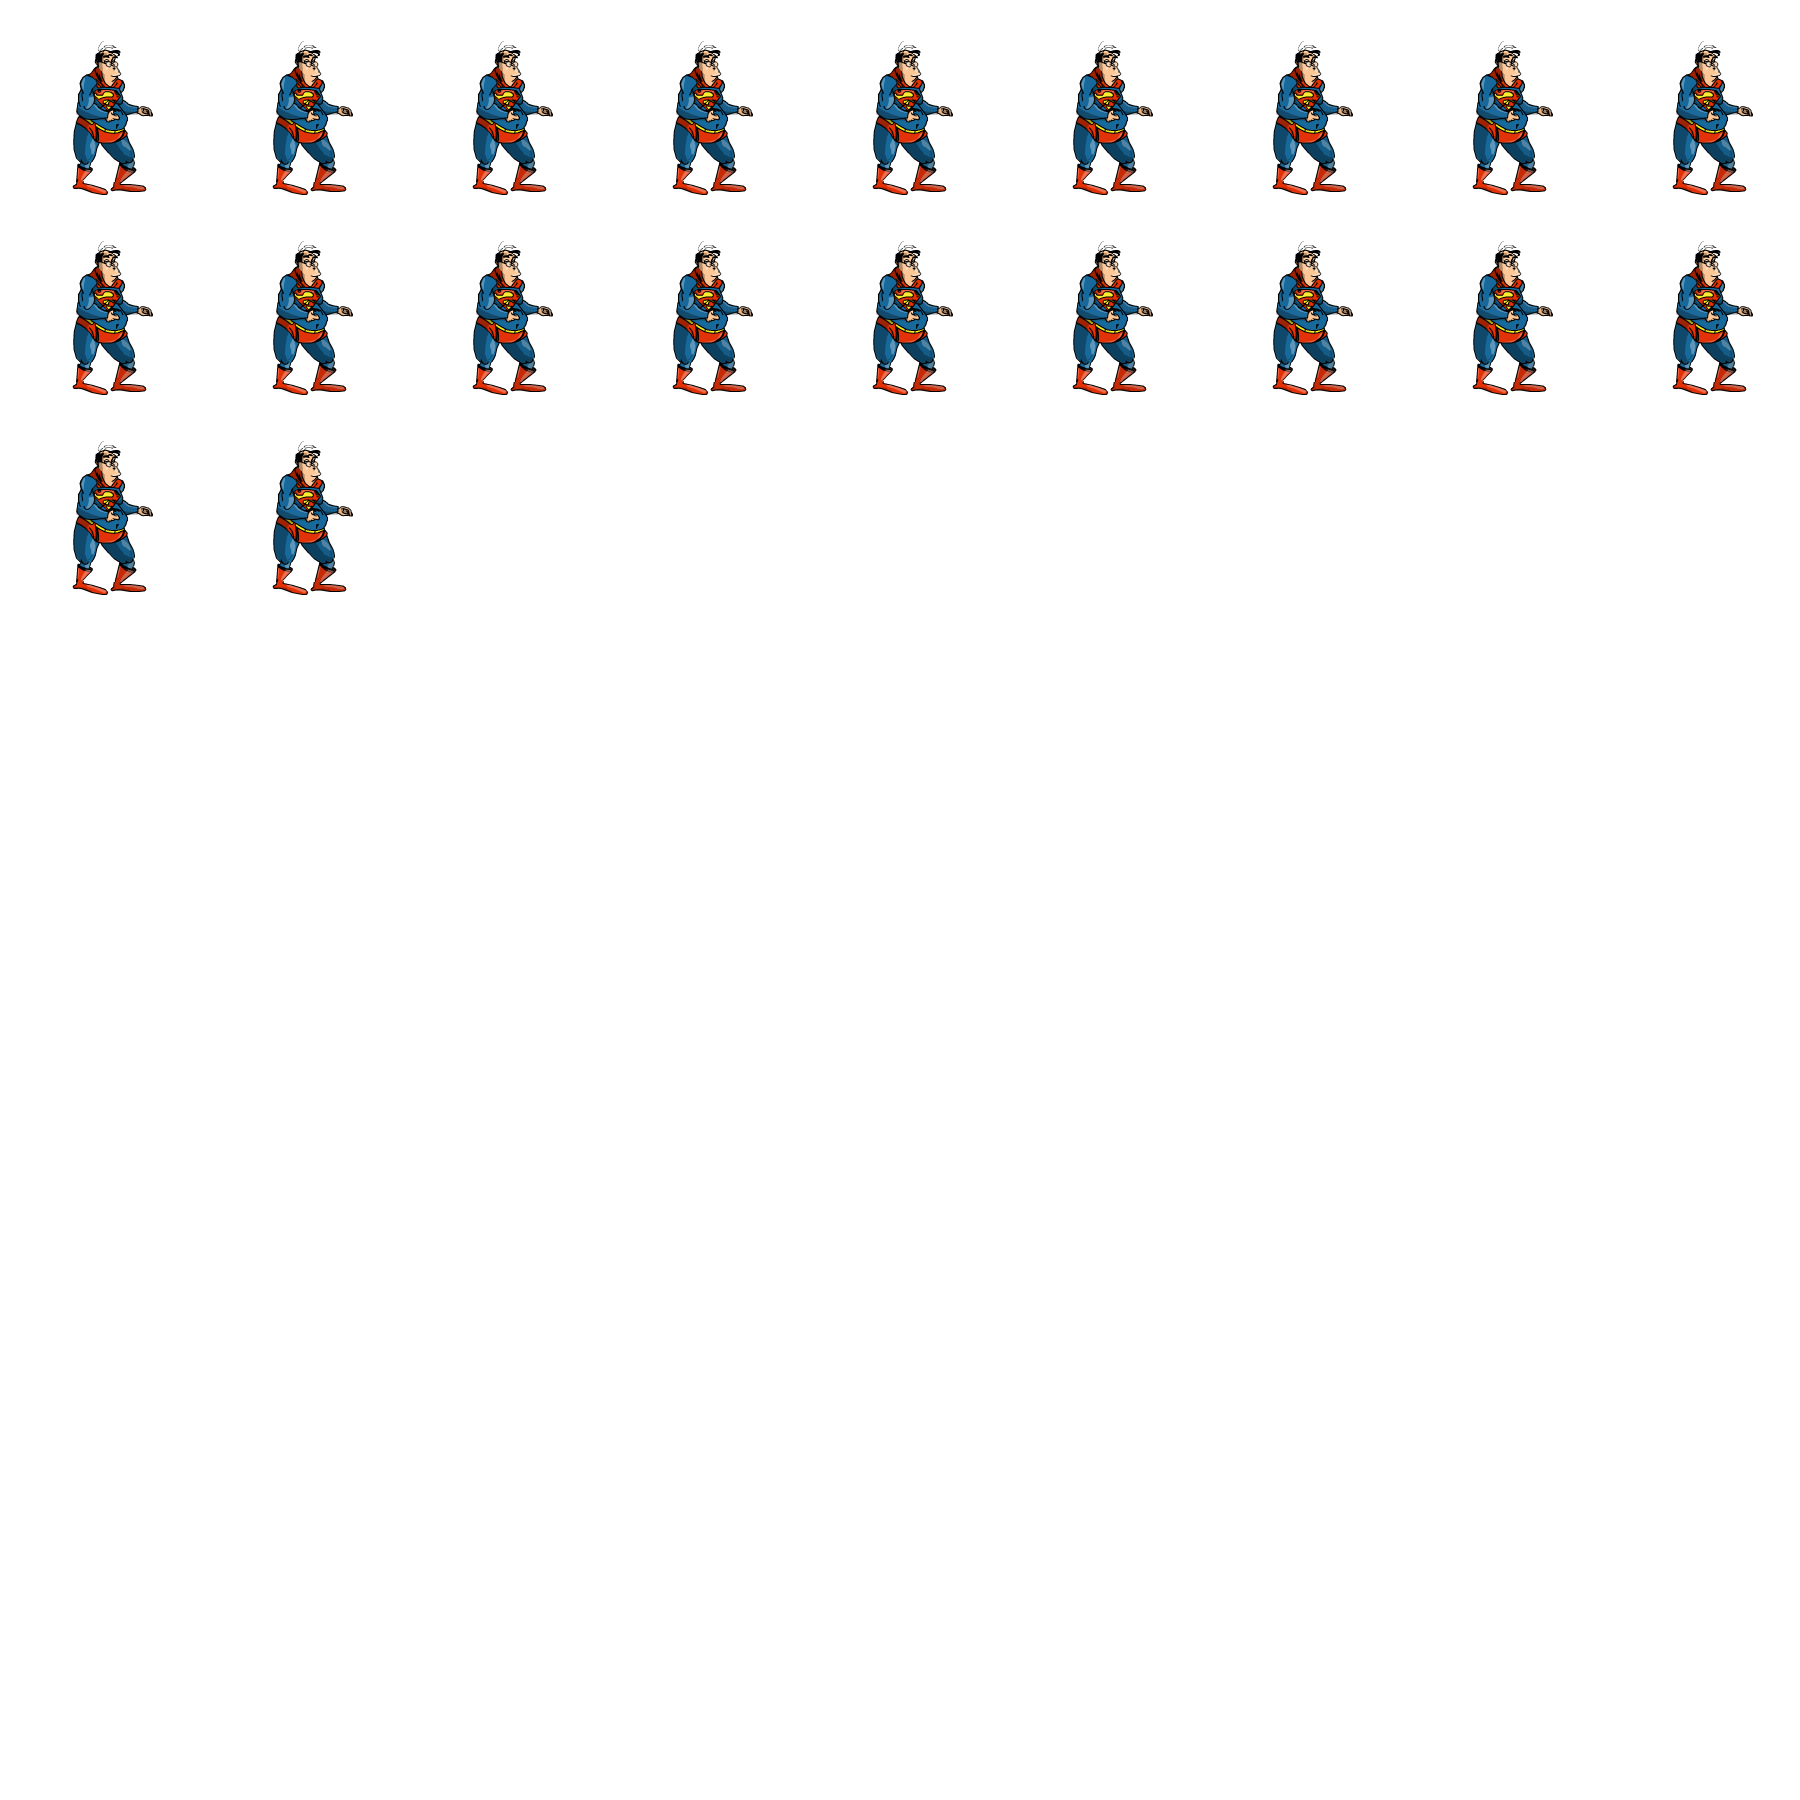
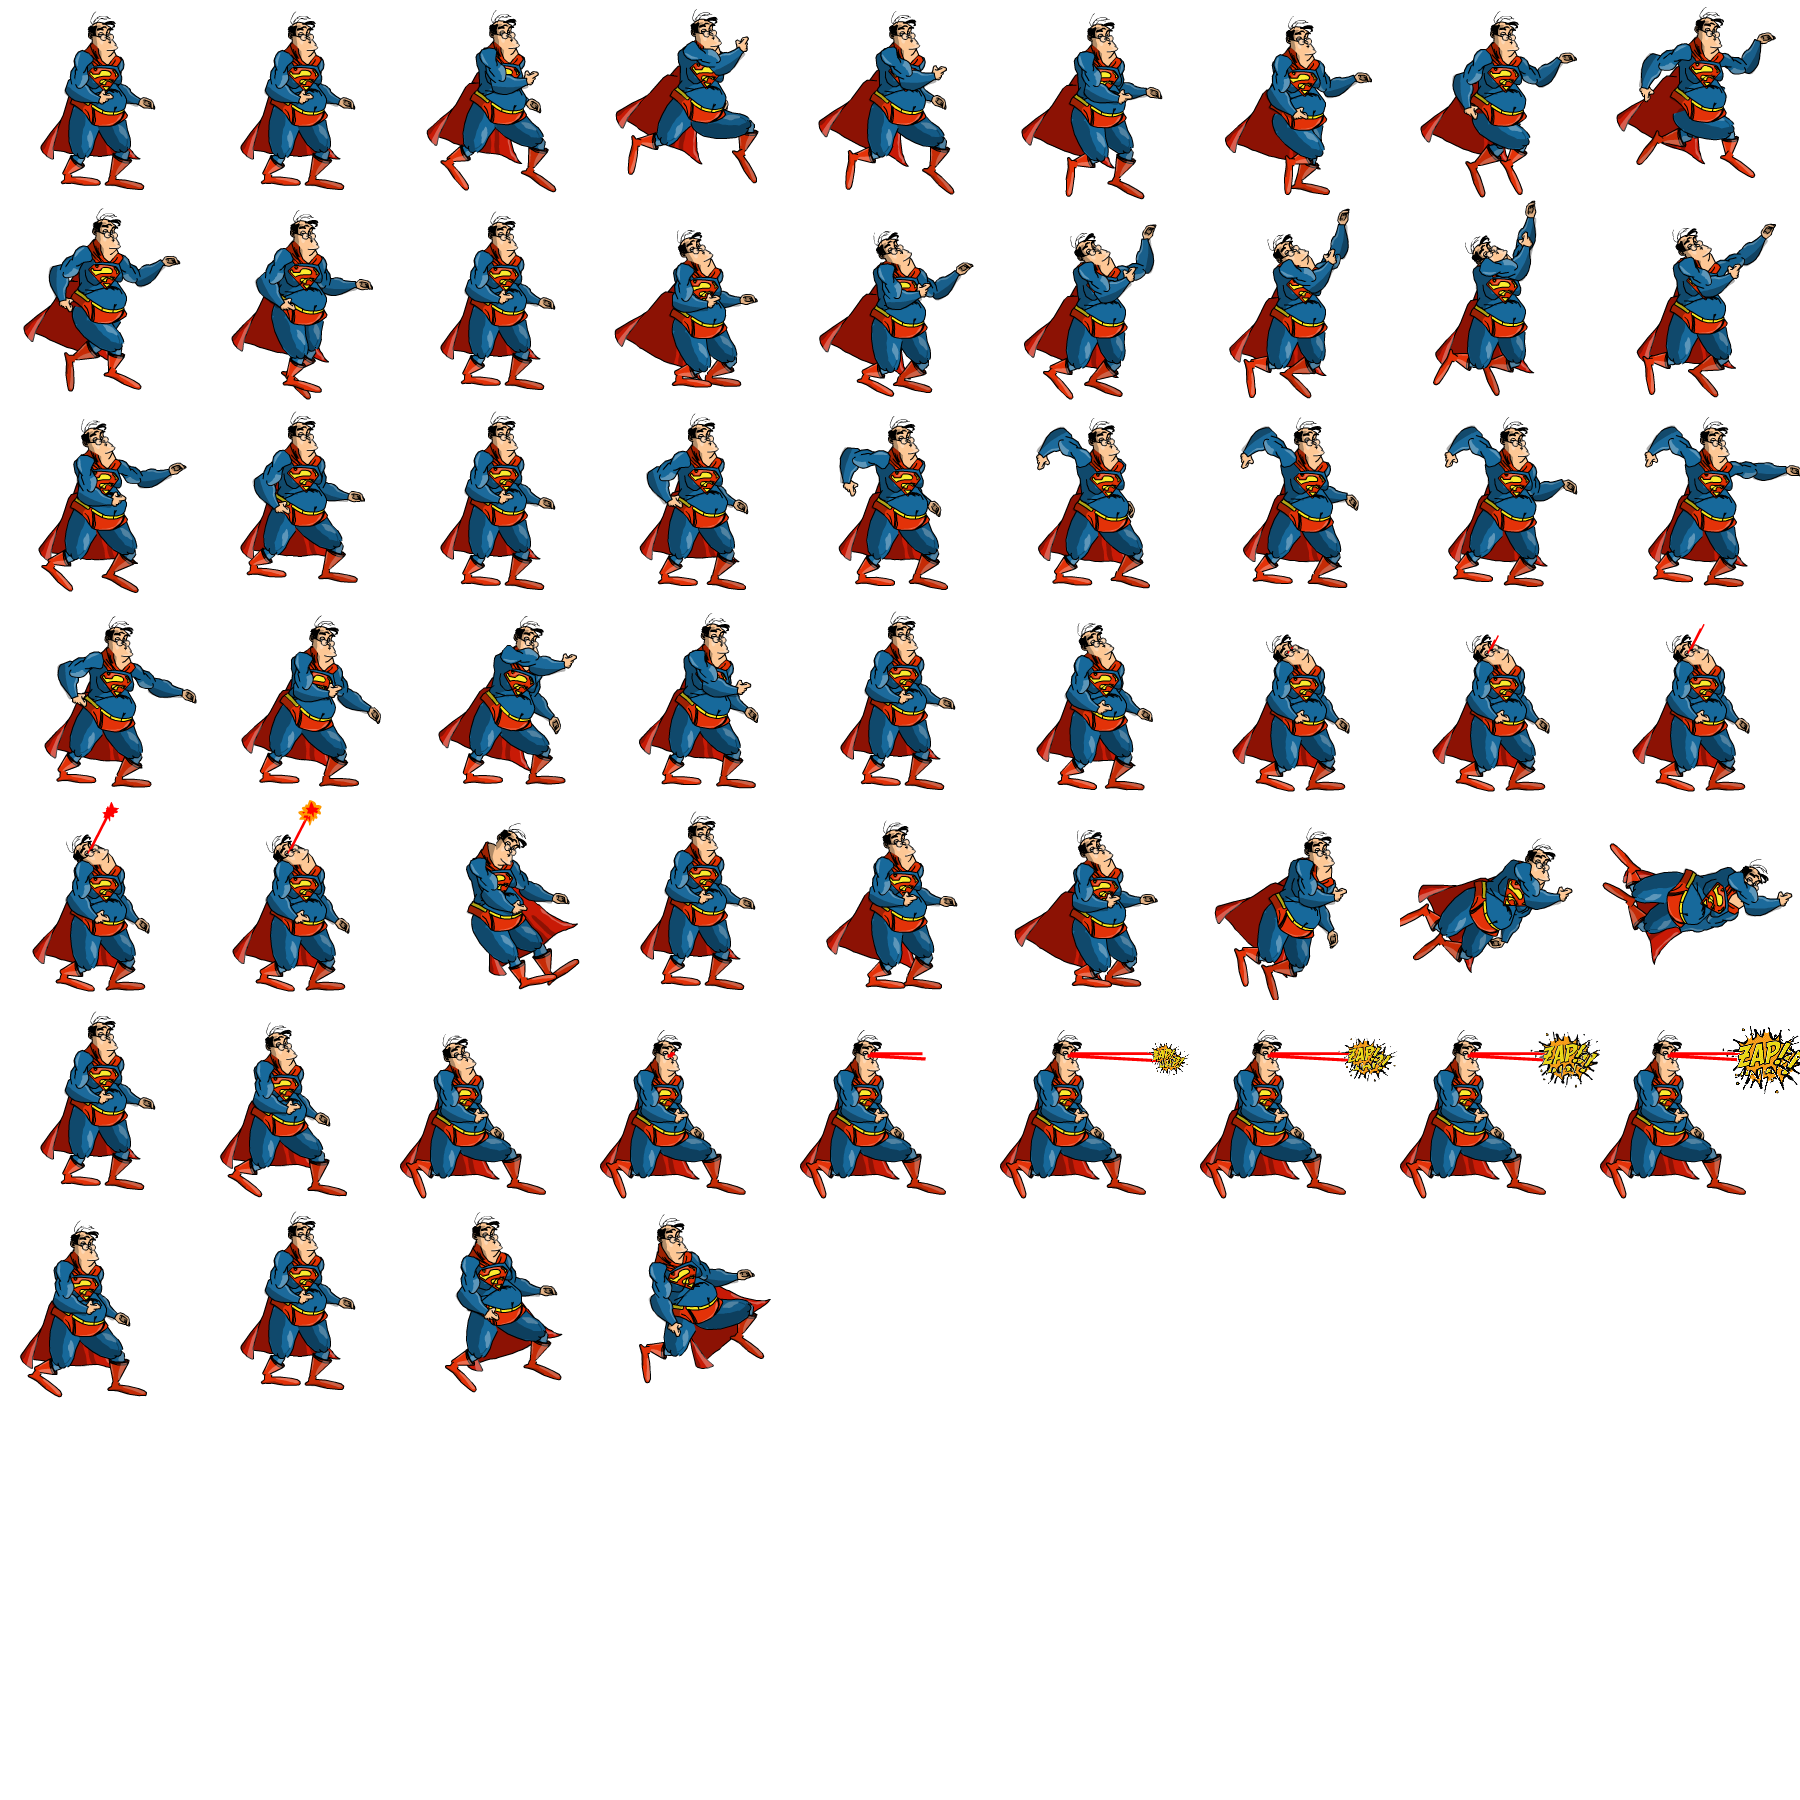
Maps & stuff

diff --git a/SmashBros/SmashBros/SmashBros/System/Serializing.cs b/SmashBros/SmashBros/SmashBros/System/Serializing.cs
@@ -247,17 +247,17 @@ namespace SmashBros.System
                     c.animations = "Characters/SupermanFatAnimation";
                     c.ani_noneStart = 0;
                     c.ani_noneEnd = 0;
-                    c.ani_runStart = 0;
-                    c.ani_runEnd = 0;
-                    c.ani_brake = 0;
-                    c.ani_jumpStart = 0;
-                    c.ani_jumpEnd = 0;
-                    c.ani_fallStart = 0;
-                    c.ani_fallEnd = 0;
-                    c.ani_landStart = 0;
-                    c.ani_landEnd = 0;
-                    c.ani_takeHitStart = 0;
-                    c.ani_takeHitEnd = 0;
+                    c.ani_runStart = 1;
+                    c.ani_runEnd = 10;
+                    c.ani_brake = 38;
+                    c.ani_jumpStart = 11;
+                    c.ani_jumpEnd = 16;
+                    c.ani_fallStart = 16;
+                    c.ani_fallEnd = 16;
+                    c.ani_landStart = 17;
+                    c.ani_landEnd = 19;
+                    c.ani_takeHitStart = 55;
+                    c.ani_takeHitEnd = 57;
 
                     c.a = new Move()
                     {
@@ -274,8 +274,8 @@ namespace SmashBros.System
                         sqWidth = 10,
                         sqHeight = 10,
                         duration = 250,
-                        aniFrom = 0,
-                        aniTo = 0
+                        aniFrom = 20,
+                        aniTo = 30
                     };
 
                     c.aUp = new Move()
@@ -293,8 +293,27 @@ namespace SmashBros.System
                         sqWidth = 10,
                         sqHeight = 10,
                         duration = 250,
-                        aniFrom = 0,
-                        aniTo = 0
+                        aniFrom = 31,
+                        aniTo = 37
+                    };
+
+                    c.x =new Move()
+                    {
+                        range = false,
+                        adjustable = false,
+                        minWait = 0,
+                        maxWait = 0,
+                        minPower = 10,
+                        maxPower = 10,
+                        minDamage = 10,
+                        maxDamage = 10,
+                        sqRange = 0.8f,
+                        bodyRange = 1,
+                        sqWidth = 10,
+                        sqHeight = 10,
+                        duration = 250,
+                        aniFrom = 45,
+                        aniTo = 54
                     };
                 }
                 Write(c,CharacterFolder,"Character"+i);
@@ -322,18 +341,17 @@ namespace SmashBros.System
                 map.size = new Box(3500, 1600, -800, 0);
                 map.zoomBox = new Box(3000, 1300, -800, 100);
 
+
+                map.AddBox(680, 1270, 620, 450);
+                map.AddBox(1245, 990, 540, 60);
+                map.AddBox(1235, 1290, 520, 540);
+                map.AddBox(245,1200,360,570);
+
+                map.AddFloatBox(765, 620, 485);
+                map.AddFloatBox(705,815,670);
+
+
                 int mx = -420;
-
-                map.AddBox(610+mx, 960, 300, 100, -9.3f);
-                map.AddBox(790 + mx, 955, 120, 100, 17f);
-                map.AddBox(1100 + mx, 1270, 560, 450);
-                map.AddBox(1670 + mx, 1230, 580, 540);
-                map.AddBox(650 + mx, 1240, 410, 570);
-
-                map.AddFloatBox(1170 + mx, 620, 550);
-                map.AddFloatBox(1125 + mx, 815, 730);
-
-
                 map.AddStartPos(650 + mx, 800);
                 map.AddStartPos(1700 + mx, 850);
                 map.AddStartPos(850 + mx, 700);

diff --git a/SmashBros/SmashBros/SmashBros/System/Constants.cs b/SmashBros/SmashBros/SmashBros/System/Constants.cs
@@ -8,7 +8,7 @@ namespace SmashBros.System
     public static class Constants
     {
         public const bool DebugMode = !true;
-        public const bool StartGameplay = !true;
+        public const bool StartGameplay = true;
         public const bool Music = !true;
 
 
